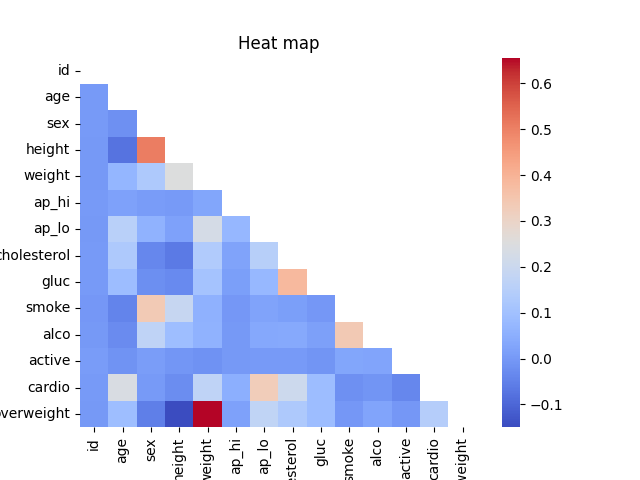
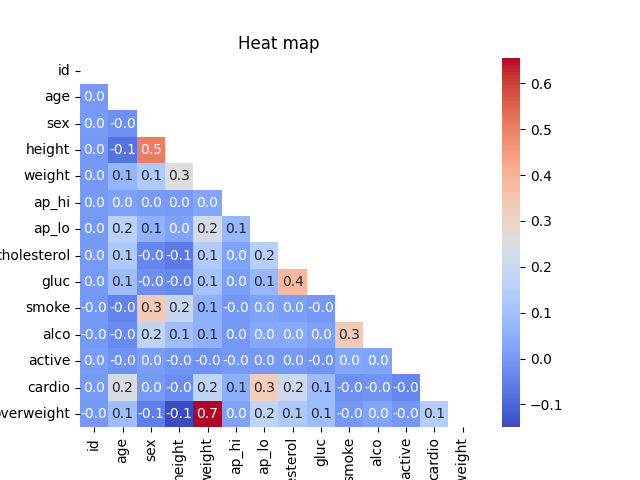
Passed medical

diff --git a/boilerplate-medical-data-visualizer/medical_data_visualizer.py b/boilerplate-medical-data-visualizer/medical_data_visualizer.py
@@ -72,7 +72,9 @@ def draw_heat_map():
     fig, ax = plt.subplots()
 
     # 15
-    sns.heatmap(corr, mask=mask, cmap="coolwarm", ax=ax)
+    sns.heatmap(
+        corr, mask=mask, cmap="coolwarm", ax=ax, fmt=".1f", annot=True
+    )  # Need to annotate the cells on the heatmap
     plt.title("Heat map")
     # plt.show()
 
